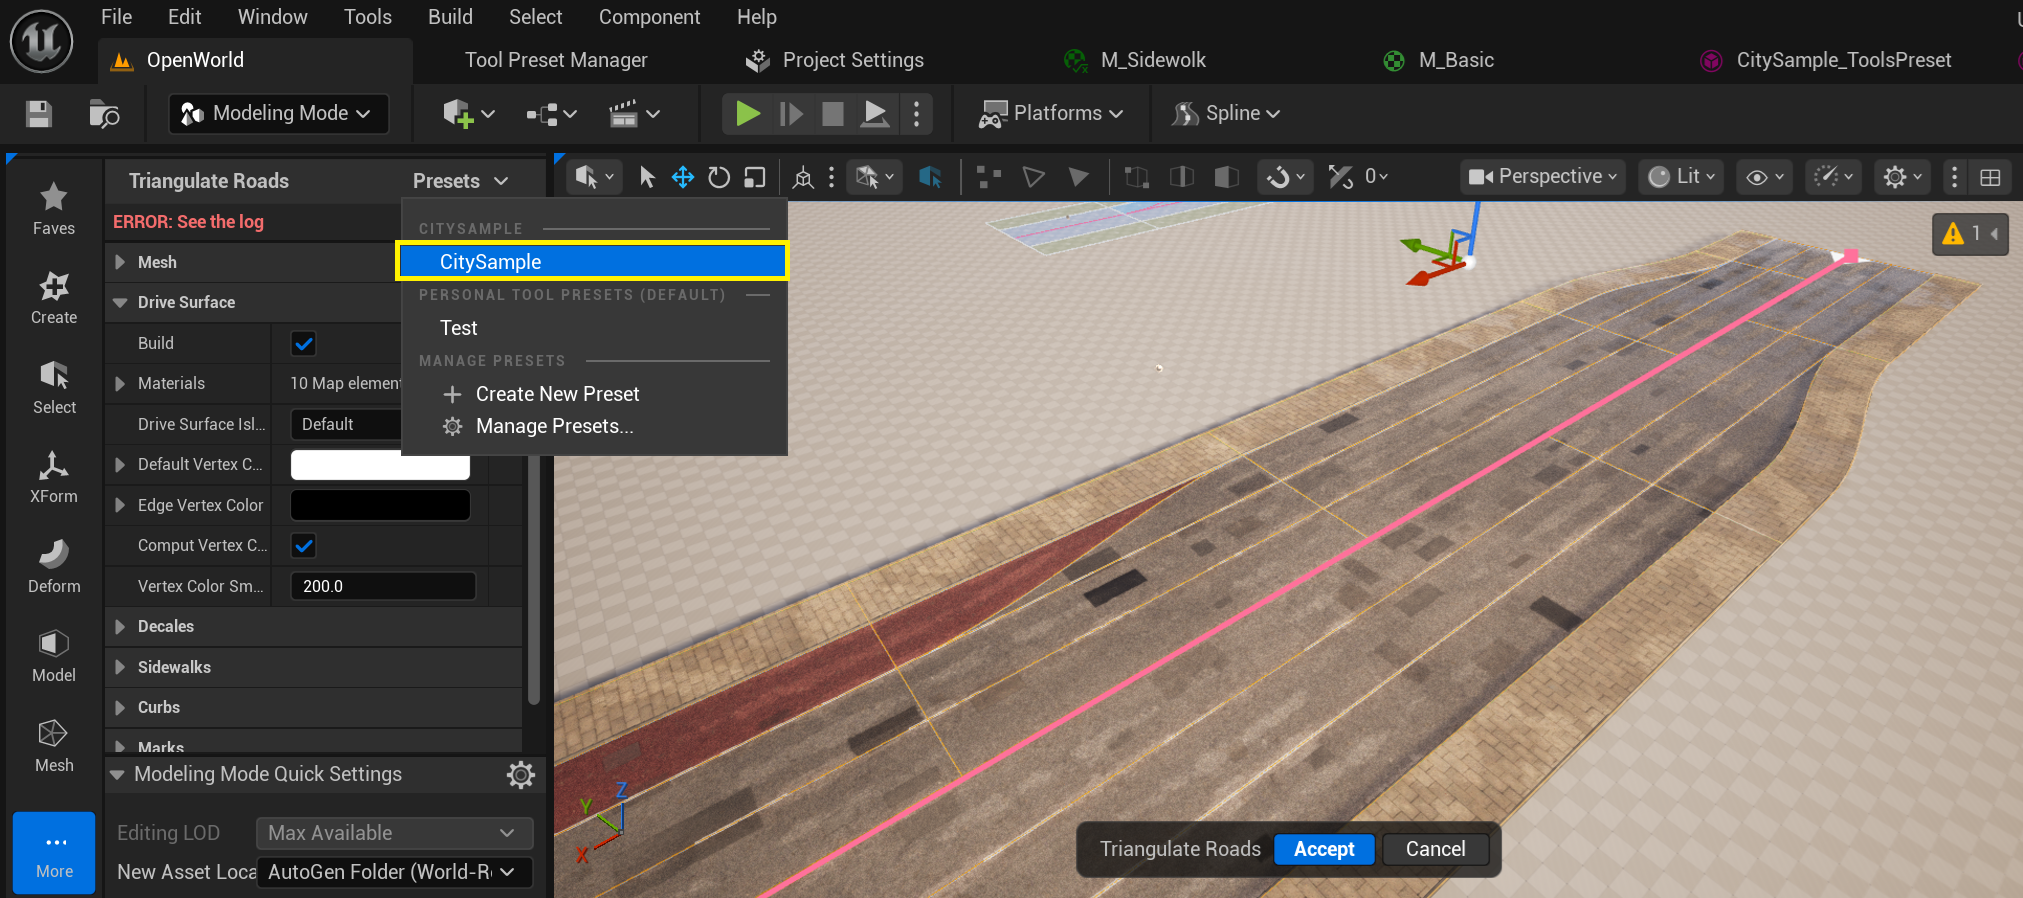
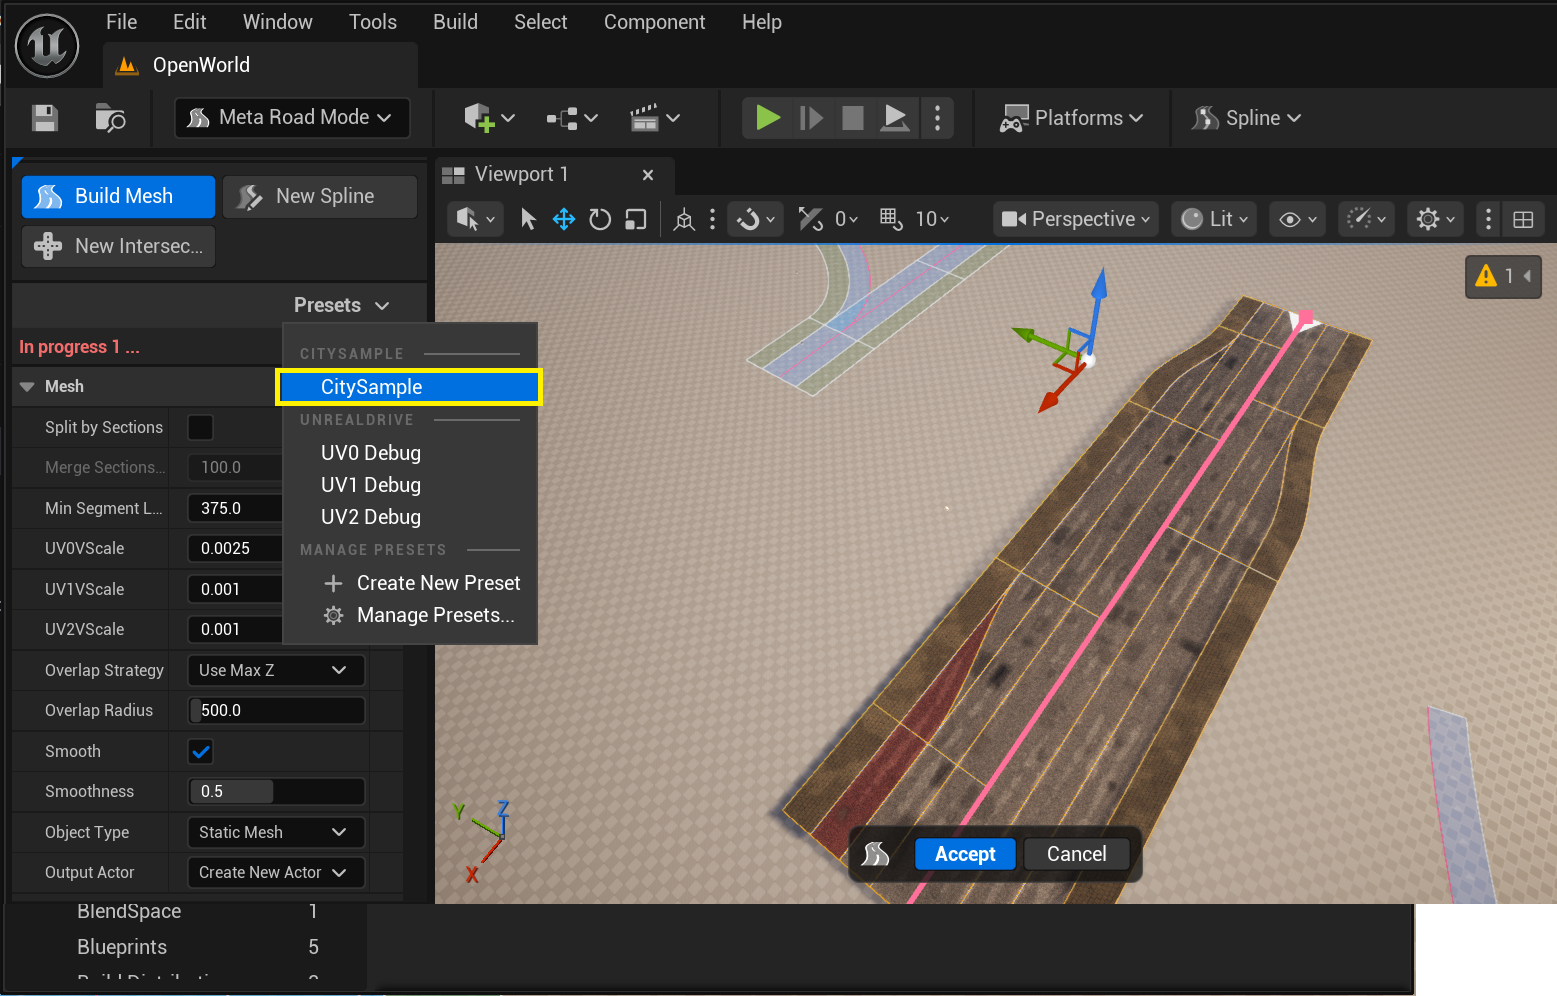
step

diff --git a/docs/source/ProcedureGenerationTool.md b/docs/source/ProcedureGenerationTool.md
@@ -1,5 +1,5 @@
 
-# Build Mesh Modeling Tool
+## Build Mesh Modeling Tool
 This Modeling Tool allows you to generate assets (static meshes, dynamic meshes, spline meshes, etc.) and create Actors with these assets on the scene.  
 To use the **Build Mesh Tool**, simply select one or more actors containing **URoadSplineComponent**, activate the **Build Mesh Tool**, and it will immediately display the preliminary result:  
 ![alt text](img/buid-mesh2.gif)  
@@ -23,14 +23,14 @@ The **Build Mesh Tool** separately generates assets for:
 For each of these asset types, there is a corresponding group of parameters in the **Build Mesh Tool**:  
 ![alt text](img/gen-params.png)  
 
-## Mesh Materials
+### Mesh Materials
 For each type of generated asset (Drive Surface, Sidewalks, Curbs, etc.), there is a ```Materials``` parameter. It allows you to replace materials from [Preset Profiles](Presets.md) set in **Road Lanes**:  
 ![alt text](img/gen-materials.png)  
 
 Why was this necessary, instead of simply defining all the necessary materials in **Preset Profiles**?
 In practice, **Preset Profiles** usually define profile “domains,” such as **Tram**, and set a default material for them. And in the **Build Mesh Tool**, it is convenient to override the default material if necessary. This approach is more flexible and allows you to quickly switch between sets of materials for the same road, even those obtained from different sources. But there is nothing to prevent you from creating several **Tram** profiles in **Preset Profiles** (e.g., **Tram-1**, **Tram-new**, **Tram-old**) and assigning the appropriate profiles to **Road Lanes**.
 
-## Mesh UVs
+### Mesh UVs
 Procedural generation for Road Surface generates two levels of texture coordinates:  
   - UV0 - a separate track for each lane. UV0 is useful for displaying road ruts or tram tracks.
   - UV1 - a track for the left and right sides of the road. UV1 is useful for displaying road patches.
@@ -40,7 +40,7 @@ Procedural generation for Road Surface generates two levels of texture coordinat
 To display debugging materials (as shown in the image above), you need to add **UnrealDriveInteractiveToolsPreset** to the **Loaded Preset Collection** in the **Project Settings -> Plugins -> Interactive Tool Presets** menu. After that, two presets, **UV0 Debug** and **UV1 Debug** Debug, will become available:  
 ![alt text](img/debug-tex-coords.gif)  
 
-## Mesh Vertex Color
+### Mesh Vertex Color
 For road surface materials, we recommend using the **Vertex Color** mesh attribute to designate areas of the mesh where you need to control the presence of textures stretched across the UV0 and UV1 channels (such as puddles, ruts, and patches). This will eliminate artifacts at the seams (areas where several **URoadSplineComponent** intersect) and improve the overall appearance of the roads:  
 ![alt text](img/VertexColor2.gif)  
 
@@ -52,7 +52,7 @@ These parameters allow to set the color of vertices in the center and at the edg
 
 However, for complex intersections, you will most likely have to manually "paint" the necessary vertices in **Mesh Paint**mode, as shown above. In future releases of UnrealDrive, it may be possible to improve the vertex color generation mechanism so that you don't have to resort to **Mesh Paint** mode.
 
-## The principle of spline grouping
+### The principle of spline grouping
 ```{Important}
 It is important to remember that procedural road generation treats each actor containing at least one **URoadSplineComponent** as a separate generation unit, unrelated to other actors and **URoadSplineComponent** on the scene. This leads to two rules:
   - A group of **URoadSplineComponents** representing an intersection or junction must be located within a single AActor.

diff --git a/docs/source/Installation.md b/docs/source/Installation.md
@@ -1,15 +1,8 @@
 # Installation
 
-UnrealDrive is a plugin for UnrealEngine, so the installation procedure for UnrealDrive is the same as for a regular UnrealEngine plugin (see [Working with Plugins in UnrealEngine](https://dev.epicgames.com/documentation/en-us/unreal-engine/working-with-plugins-in-unreal-engine)):  
-  1. Copy the UnrealDrive **Plugins** folder to the Plugins folder of your UnrealEngine project (next to the .uproject file) or to the **Engine\Plugins** folder of the engine. If you purchased and installed the plugin through [fab.com](https://www.fab.com/), it will already be copied to the **Engine\Plugins\Marketplace** folder.  
-  2. From the main menu, go to **Edit -> Plugins**. This opens the **Plugins** window and enables the **UnrealDrive** plugin:  
+**MetaRoad** is a plugin for UnrealEngine, so the installation procedure for MetaRoad is the same as for a regular UnrealEngine plugin (see [Working with Plugins in UnrealEngine](https://dev.epicgames.com/documentation/en-us/unreal-engine/working-with-plugins-in-unreal-engine)):  
+  1. Copy the **MeteRoad Plugin** folder to the **Plugins** folder of your UnrealEngine project (next to the .uproject file) or to the **Engine\Plugins** folder of the engine. If you purchased and installed the plugin through [fab.com](https://www.fab.com/), it will already be copied to the **Engine\Plugins\Marketplace** folder.  
+  2. From the main menu, go to **Edit -> Plugins**. This opens the **Plugins** window and enables the **MetaRoad** plugin:  
     ![alt text](img/plugins.png "Plugins Windows")
-  3. Add [Unreal Drive Preset](Presets.md) to [Primary Assets to Scan](https://dev.epicgames.com/documentation/en-us/unreal-engine/asset-management-in-unreal-engine). This is necessary for the engine to detect all [Preset](Presets.md) in the project. To do this, from the main menu, go to **Edit -> Project Settings**. Navigate to the **Asset Manager** and add a new item to the **Primary Assets to Scan** with the following options: 
-     - Enter the value **UnrealDrivePreset** in the **Primary Assets Type** field
-     - Choose the **UnrealDrivePreset** in the **Primary Base Class** field
-     - Set the **Has Blueprint Classes** field
-     - Set the **Is Editor Only** field
-     - Add **/Game** and **/UnrealDrive**  values to the **Directories** field  
-     ![alt text](img/set-primary-asset.png "Primary Asset") 
-  4. Make sure that Translucent Selection is allowed, otherwise there may be problems with selecting road lanes:  
+  3. Make sure that **Translucent Selection** is allowed, otherwise there may be problems with selecting road lanes:  
      ![alt text](img/allow-translucent-selection.png)   

diff --git a/docs/source/CitySamplePack.md b/docs/source/CitySamplePack.md
@@ -1,18 +1,13 @@
 
 # City Sample Pack
 
-By default the UnrealDrive plugin includes a simple, lightweight road materials pack. The all videos and images from this docs use the free [UnrealDrive: CitySample Pack](https://www.fab.com/listings/fac286e8-31ff-4edc-bfc0-ae5a21ad5cd7). This is a pack of materials from the [CitySample](https://www.fab.com/listings/4898e707-7855-404b-af0e-a505ee690e68) project adapted for the UnrealDrive plugin. 
+By default the MetaRoad plugin includes a simple, lightweight road materials pack. The all videos and images from this docs use the free [MetaRoad: CitySample Pack](https://www.fab.com/listings/fac286e8-31ff-4edc-bfc0-ae5a21ad5cd7). This is a pack of materials from the [CitySample](https://www.fab.com/listings/4898e707-7855-404b-af0e-a505ee690e68) project adapted for the MetaRoad plugin. 
 To include this pack in your UE project, follow these steps:  
-  1. Download and install the [UnrealDrive: CitySample Pack](https://www.fab.com/listings/fac286e8-31ff-4edc-bfc0-ae5a21ad5cd7) from the FAB. You should get the following project structure:   
+  1. Download and install the [MetaRoad: CitySample Pack](https://www.fab.com/listings/fac286e8-31ff-4edc-bfc0-ae5a21ad5cd7) from the FAB. You should get the following project structure:   
     ![alt text](img/city-sample-path.png)  
 
-  2. Add **CitySample_ToolsPreset** to the **Loaded Preset Collection** in the **Project Settings -> Plugins -> Interactive Tool Presets** menu:  
-    ![alt text](img/city-sample-add.png)  
-     You can also quickly access to the **Interactive Tool Presets** as follows:   
-    ![alt text](img/city-sample.gif)  
-
-  3. After which the preset will become available in **CitySample**:  
+  2. After which the preset will become available in **Preset** menu:  
     ![alt text](img/city-sample-preset.png)  
 
-  4. This pack also provides several **Lane Attributes** to enable the generation of additional SplineMeshes:
+  3. This pack also provides several **Lane Attributes** to enable the generation of additional SplineMeshes:
     ![alt text](img/city-sample-attr.png) 

diff --git a/docs/source/ZoneGraph.md b/docs/source/ZoneGraph.md
@@ -1,0 +1,22 @@
+# Zone Graph (Pro)
+
+Билдниг **ZoneGraphData** происходит через меню **Build->Build ZoneGraph**, так же как и в [стандартном подходе для ZoneShape](https://dev.epicgames.com/community/learning/tutorials/qz6r/unreal-engine-zonegraph-quick-start-guide). В результате чего будет сгенерировано по одному **ZoneGraphData** актору для каждого левела, который будет содержать навигационные данные для соотвествующего левела:  
+![alt text](img/zone-graph-build.png)  
+
+Визуализация построенных **ZoneGraphData** удобно посмотреть, активировав флаг **Navigation**:  
+![alt text](img/zone-graph-view-debug.png)  
+
+**ZoneGraphData** не не билдится для **URoadSplineComponent**. Билдниг **ZoneGraphData** будет происходить только для тех акторов, у которых есть компонент **URoadGraphDataComponent**. :  
+![alt text](img/zone-graph-data.png)  
+
+**URoadGraphDataComponent** генерируется в момент генерации меша (см. [Build Mesh Modeling Tool](ProcedureGenerationTool.md)) и содержит даные необходимы для генерации графов дорог (включая ZoneGraph):  
+![alt text](img/zone-graph-data2.png)  
+
+В **Edit -> Project Settings -> MetaRoad Editor** можно указать соотвесте **Road Lane Types** и **Zone Graph Tags** для того чтобы выбрать для каких типов дорожных полос необходимо генерировать **ZoneGraphData**:
+![alt text](img/zone-graph-settings.png)  
+
+В примере ниже показано, что для трамвайной полосы был сгенерирован участок ZoneGraph с Tag = Tram:
+![alt text](img/zone-graph-settings2.png)  
+
+
+

diff --git a/docs/source/Presets.md b/docs/source/Presets.md
@@ -1,16 +1,15 @@
 # Presets
 
-**UUnrealDrivePreset** - a class that allows you to store and use various user presets, such as:
+**UMetaRoadPreset** - a class that allows you to store and use various user presets, such as:
   - Profiles for all procedurally generated objects (Road Surface, Sidewalk, markings, curbs, etc.)
   - The road lane attributes
   - Road profiles for drawing (number and types of lanes) 
 
 There can be many presets in a project, but logically they are all combined into one. Therefore, you need to be careful with the names of profiles in presets, because if two or more presets contain profiles with the same name, only one will be used at random.  
-To create a new preset, simply create a new BP asset in the **Content Browser**, inherited from **UUnrealDrivePreset**:  
-![alt text](img/create-preset.gif)  
+To create a new preset, simply create a new **Meta Road Preset** asset in the **Content Browser**:  
+![alt text](img/create-preset.png)  
 
-**UUnrealDrivePreset** inherits from **UPrimaryDataAsset**, so it is important to add the corresponding paths where the preset was created in **Asset Manager -> Primary Assets to Scan**. Usually, it is sufficient to specify only two directories, **/Game** and **/UnrealDrive**, but if the preset is created inside a plugin, you must specify the paths to the corresponding plugins where the presets are located (see the [Installation](Installation.md)).
-The UnrealDrive plugin already has a default preset at **/UnrealDrive/DefaultPreset**. It should not be changed for backward compatibility, but there may be cases when it is necessary (for example, to change left-hand traffic to right-hand traffic):  
+The MetaRoad plugin already has a default preset at **/MetaRoad/DefaultPreset**. It should not be changed for backward compatibility, but there may be cases when it is necessary (for example, to change left-hand traffic to right-hand traffic):  
 ![alt text](img/default-preset.png)  
 
 ## Driveable Material Profiles

diff --git a/docs/source/EditorModes.md b/docs/source/EditorModes.md
@@ -1,5 +1,5 @@
-# Road Editor Modes
-Road Editor Modes are editing modes for **URoadSplineComponent**. Each mode provides access to editing the corresponding properties described in [Road Model](RoadModel.md):  
+# Road Editing Modes
+Road Editing Modes are editing modes for **URoadSplineComponent**. Each mode provides access to editing the corresponding properties described in [Road Model](RoadModel.md):  
 ![alt text](img/edit-modes2.png).  
 
 ## Base Modes
@@ -57,7 +57,7 @@ These mode allow to add various **Road Attributes** to **Road Lane**, which can 
 
 By default, two types of attributes are available: speed limit and road markings. 
 To learn how to create new attribute types, see [Road Attribute Entries](Presets.md#road-attribute-entries).
-To add a new attribute for a lane, select the appropriate mode in the **Road Editor Modes** menu, select the required **Road Lane**, and select **Create ATTRIBUTE_NAME** from the context menu. Then, add the required **Attribute Keys** from the same context menu:  
+To add a new attribute for a lane, select the appropriate mode in the **Road Editing Modes** menu, select the required **Road Lane**, and select **Create ATTRIBUTE_NAME** from the context menu. Then, add the required **Attribute Keys** from the same context menu:  
 ![alt text](img/attribute-add.gif)  
 
 In the **Details Panel**, in the **Selection** group, you can edit the selected **Attribute Key**:  

diff --git a/docs/source/About.md b/docs/source/About.md
@@ -1,12 +1,12 @@
 # About
-The UnrealDrive is a plugin for UnrealEngine that turns UnrealEngine into a powerful road network editor. 
+The MetaRoad is a plugin for UnrealEngine that turns UnrealEngine into a powerful road network editor. 
 
-The main purpose of the UnrealDrive is to provide a tool for creating a **High Definition** road networks:
+The main purpose of the MetaRoad is to provide a tool for creating a **High Definition** road networks:
   - To create digital twins of cities
   - For simulations to validate ADAS (advanced driver-assistance systems) and AD (autonomous driving) features. 
   - For games and cinematic
 	
-The UnrealDrive allows to interactively create:
+The MetaRoad allows to interactively create:
   - Any types of road junctions, roundabouts, exits and entrances, etc. 
   - Sidewalks and any types of special roads lanes: bicycle, bus, parking, tram, etc.
   - Generate road additional objects: street lights, vegetation(trees, bushes, grass), bridges etc.

diff --git a/docs/source/UserInterfaceOverview.md b/docs/source/UserInterfaceOverview.md
@@ -1,6 +1,6 @@
 # User Interface Overview
 After installing the plugin, new user interface elements become available in UnrealEngine, along with new classes:
-  * Road [Road Editor Modes](EditorModes.md) - allows to switch between **URoadSplineComponent** editing modes to edit spline properties described in [Road Model](RoadModel.md):  
+  * Road [Road Editing Modes](EditorModes.md) - allows to switch between **URoadSplineComponent** editing modes to edit spline properties described in [Road Model](RoadModel.md):  
     ![alt text](img/modeling-tools.png)  
     </br>
   * **Road Modeling Toolset** provides tools for [drawing new splines](DrawTool.md) and [generating assets](ProcedureGenerationTool.md):  

diff --git a/docs/source/DrawTool.md b/docs/source/DrawTool.md
@@ -1,4 +1,4 @@
-# Draw Modeling Tools
+## Draw Modeling Tools
 There are two Modeling Tools - **New Spline** and **Add Spline**, which allow to "draw" **URoadSplineComponent** in the usual way, as in popular 2D vector editors: 
 ![alt text](img/draw-spline.gif)  
 
@@ -15,7 +15,7 @@ You can start drawing a spline with the [Lane Successor Connection](RoadModel.md
 And finish with [Lane Predecessor Connection](RoadModel.md#intersections-and-junctions):  
 ![alt text](img/draw-to-predecessor.gif)  
 
-## Lane Source
+### Lane Source
 The **Lane Source** defines the rules for detection of road lanes profile (num and types of the road lanes) for spline drawing.  
 ![alt text](img/draw-spline-source.png)  
 

diff --git a/docs/source/index.rst b/docs/source/index.rst
@@ -1,4 +1,4 @@
-Welcome to UnrealDrive documentation!
+Welcome to MetaRoad documentation!
 ===================================
 ..
   _.. subprojecttoctree::
@@ -13,8 +13,9 @@ Welcome to UnrealDrive documentation!
    RoadModel.md
    UserInterfaceOverview.md
    EditorModes.md
-   DrawTool.md
-   ProcedureGenerationTool.md
+   Tools.md
+    DrawTool.md
+    ProcedureGenerationTool.md
    ClosedLoopSplines.md
    Presets.md
    TileWindow.md

diff --git a/docs/source/Tools.md b/docs/source/Tools.md
@@ -1,0 +1,1 @@
+# Tools
